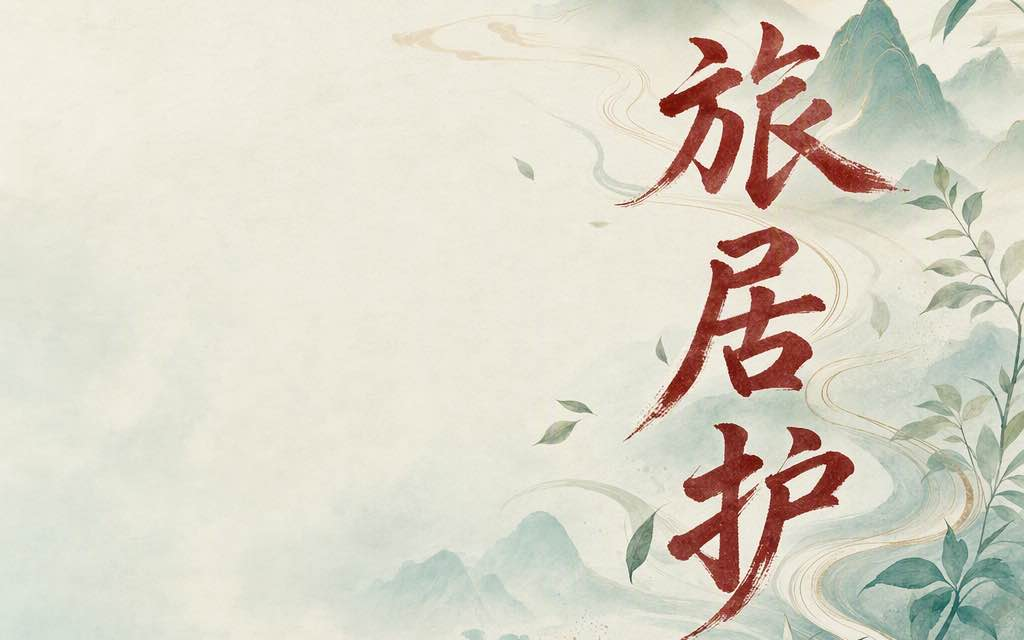
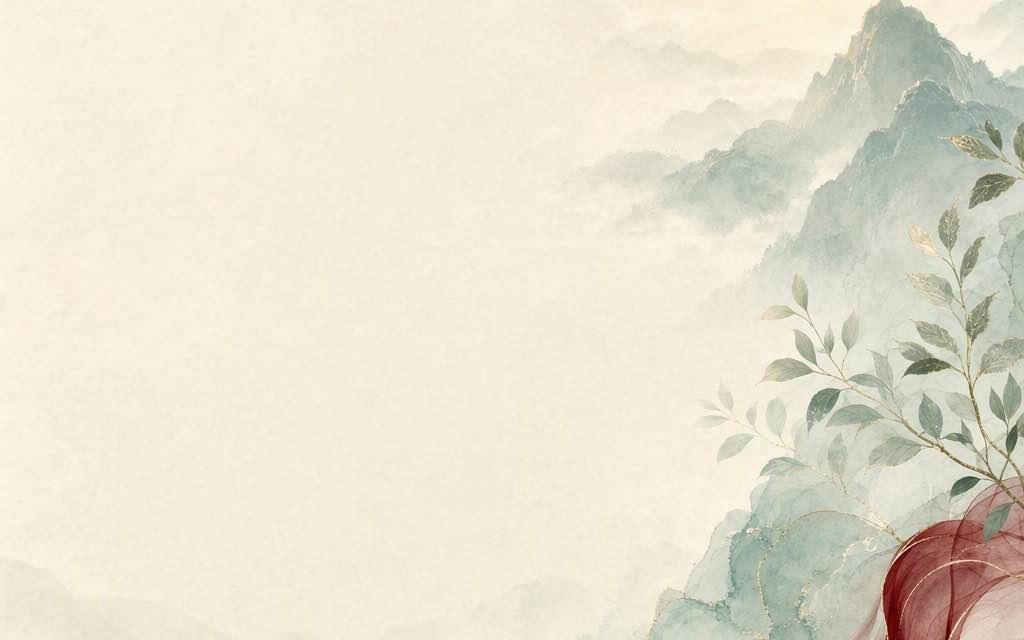
fix(about): move service glyphs out of hero art

diff --git a/shop-mnp/packagesPublic/AboutUs/AboutUs.scss b/shop-mnp/packagesPublic/AboutUs/AboutUs.scss
@@ -125,17 +125,52 @@ $cream: #fbf5ec;
 }
 
 .service-badge {
+	position: relative;
 	display: flex;
-	width: 70rpx;
-	height: 70rpx;
+	width: 74rpx;
+	height: 74rpx;
 	align-items: center;
 	justify-content: center;
-	border-radius: 50%;
-	background: $cream;
-	font-size: 27rpx;
-	font-weight: 800;
+	border: 1rpx solid rgba(112, 16, 24, 0.16);
+	border-radius: 48% 52% 45% 55% / 52% 44% 56% 48%;
+	background: linear-gradient(145deg, #fffdfa 0%, #f8ece5 100%);
+	box-shadow: 0 8rpx 18rpx rgba(112, 16, 24, 0.08);
+	font-family: "STKaiti", "Kaiti SC", "KaiTi", serif;
+	font-size: 32rpx;
+	font-weight: 700;
 	color: $accent;
 	flex-shrink: 0;
+	transform: rotate(-2deg);
+	isolation: isolate;
+}
+
+.service-badge::before {
+	position: absolute;
+	inset: 6rpx;
+	border: 1rpx solid rgba(112, 16, 24, 0.13);
+	border-radius: 54% 46% 52% 48% / 46% 56% 44% 54%;
+	content: "";
+	z-index: -1;
+}
+
+.service-badge::after {
+	position: absolute;
+	right: 7rpx;
+	bottom: 10rpx;
+	width: 13rpx;
+	height: 4rpx;
+	border-radius: 999rpx;
+	background: rgba(112, 16, 24, 0.22);
+	content: "";
+	transform: rotate(-24deg);
+}
+
+.service-card:nth-child(2) .service-badge {
+	transform: rotate(2deg);
+}
+
+.service-card:nth-child(3) .service-badge {
+	transform: rotate(-1deg);
 }
 
 .service-copy {

diff --git a/shop-mnp/packagesPublic/AboutUs/AboutUs.vue b/shop-mnp/packagesPublic/AboutUs/AboutUs.vue
@@ -21,7 +21,7 @@
 					<text class="section-title">我们为您提供</text>
 					<view class="service-list">
 						<view v-for="item in services" :key="item.title" class="service-card">
-							<view class="service-badge">{{ item.badge }}</view>
+							<view class="service-badge"><text>{{ item.badge }}</text></view>
 							<view class="service-copy">
 								<text class="service-title">{{ item.title }}</text>
 								<text class="service-description">{{ item.description }}</text>
@@ -50,7 +50,7 @@
 			return {
 				services: [
 					{ badge: '旅', title: '康养旅居', description: '精选适合长者的旅居目的地，住得舒心，玩得轻松。' },
-					{ badge: '康', title: '社区康养', description: '把贴心服务带到家门口，让日常生活更便利。' },
+					{ badge: '居', title: '社区康养', description: '把贴心服务带到家门口，让日常生活更便利。' },
 					{ badge: '护', title: '专业照护', description: '以专业、细致的服务，守护长者和家人的安心。' }
 				]
 			}
